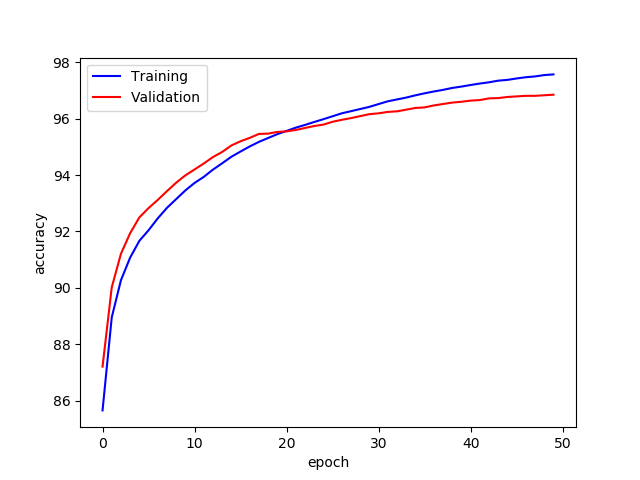
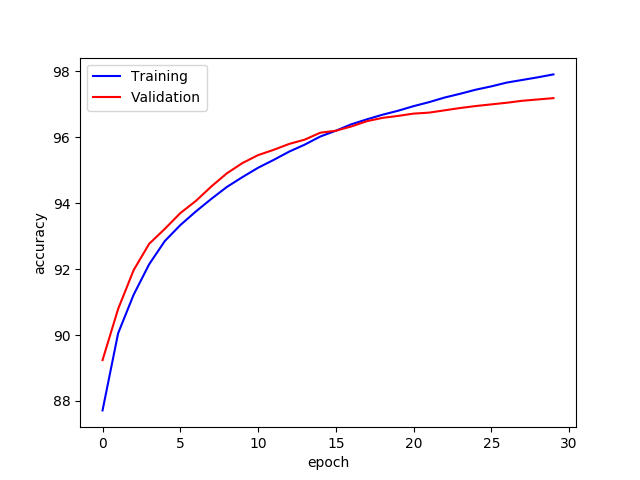
final fares

diff --git a/Report_Practical/main.tex b/Report_Practical/main.tex
@@ -167,7 +167,7 @@ We observe that when the learning rate is low, training is more reliable, howeve
 \item number of mini-batches of 512: validation accuracy = 93.1\% (See Figure \ref{fig:batch3}).  
   
 \end{itemize}
-We observe that the model performs better when the batch size is large.
+We observe that the model performs better when the batch size is small.But it takes much more time to converge.
 \begin{figure}
 \centering
 \includegraphics[width=0.7\textwidth]{batch2.png}
@@ -185,11 +185,11 @@ We observe that the model performs better when the batch size is large.
 
 \begin{itemize}
 
-\item Relu activation function: validation accuracy = 97.2\% (See Figure \ref{fig:hyper}).
+\item Relu activation function: validation accuracy = 97.3\% (See Figure \ref{fig:hyper}).
 
-\item Sigmoid activation function: validation accuracy = 92.2\% (See Figure \ref{fig:sigmoid}).
+\item Sigmoid activation function: validation accuracy = 92.8\% (See Figure \ref{fig:sigmoid}).
 
-\item tanh activation function: validation accuracy = 93.9\% (See Figure \ref{fig:tanh}).  
+\item tanh activation function: validation accuracy = 95.8\% (See Figure \ref{fig:tanh}).  
   
 \end{itemize}
 Obviously Relu and tanh perform better in terms of accuracy. 
@@ -207,7 +207,7 @@ Obviously Relu and tanh perform better in terms of accuracy.
 \begin{figure}
 	\centering
 	\includegraphics[width=0.7\textwidth]{arch2.png}
-	\caption{\label{fig:arch2}Validation/training accuracy against the training time (epoch) using a network architecture with h1=32 and h2=64}
+	\caption{\label{fig:arch2}Validation/training accuracy against the training time (epoch) using a network architecture with h1=256 and h2=512}
 \end{figure}
 \begin{figure}
 	\centering
@@ -220,13 +220,15 @@ Obviously Relu and tanh perform better in terms of accuracy.
 
 \begin{itemize}
 
-\item Network with 2 hidden layers h1 = 64, h2 = 32: validation accuracy = 97.2\% (See Figure \ref{fig:hyper}).
+\item Network with 2 hidden layers h1 = 512, h2 = 256: validation accuracy = 97.3\% (See Figure \ref{fig:hyper}).
 
-\item Network with 2 hidden layers h1 = 32, h2 = 64: validation accuracy = 96.85\% (See Figure \ref{fig:arch2}).
+\item Network with 2 hidden layers h1 = 256, h2 = 512: validation accuracy = 97.1\% (See Figure \ref{fig:arch2}).
 
-\item Network with 2 hidden layers h1 = 10, h2 = 5: validation accuracy = 91.77\% (See Figure \ref{fig:arch3}).
+\item Network with 2 hidden layers h1 = 10, h2 = 5: validation accuracy = 91.4\% (See Figure \ref{fig:arch3}).
 
 \end{itemize}
+
+Having a more complex network results in better performs. But it takes more time to train.
 
 
 \subsection{Gradient validation using finite difference approximation}

diff --git a/Problem 1/mlp.py b/Problem 1/mlp.py
@@ -497,7 +497,7 @@ if __name__ == '__main__':
 	nn = NN(hidden_dims=(512, 256), n_hidden=2, datapath='./datasets/mnist.pkl.npy')
 	print("train/val/test: "+str(nn.dim_data))
 
-	parameters = nn.train(30,'glorot', 0.01, nn.D_train[0], nn.D_train[1], mini_batch=8, act_function="relu")
+	parameters = nn.train(30,'glorot', 0.01, nn.D_train[0], nn.D_train[1], mini_batch=64, act_function="relu")
 
 	# parameters = nn.train(100, 'glorot', 0.01, nn.D_train[0], nn.D_train[1], mini_batch=105)
 	# print('-----training')
